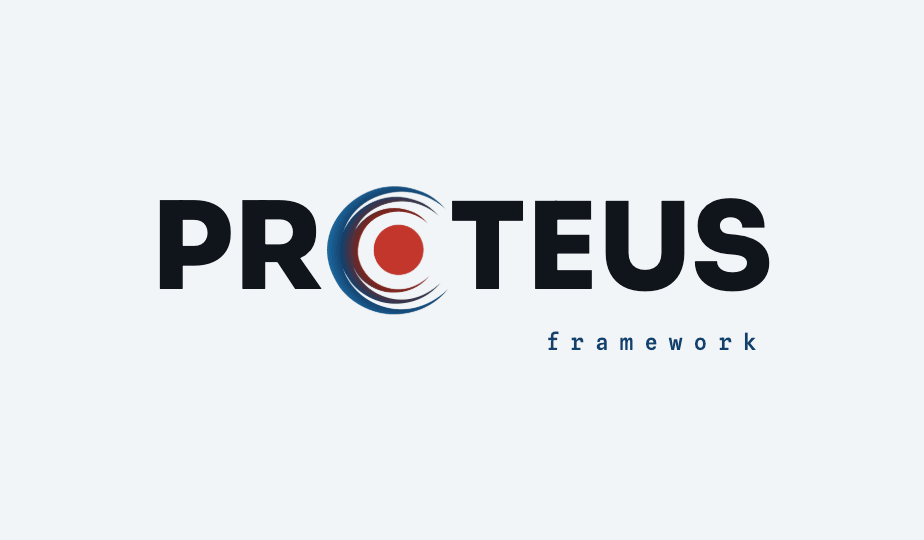
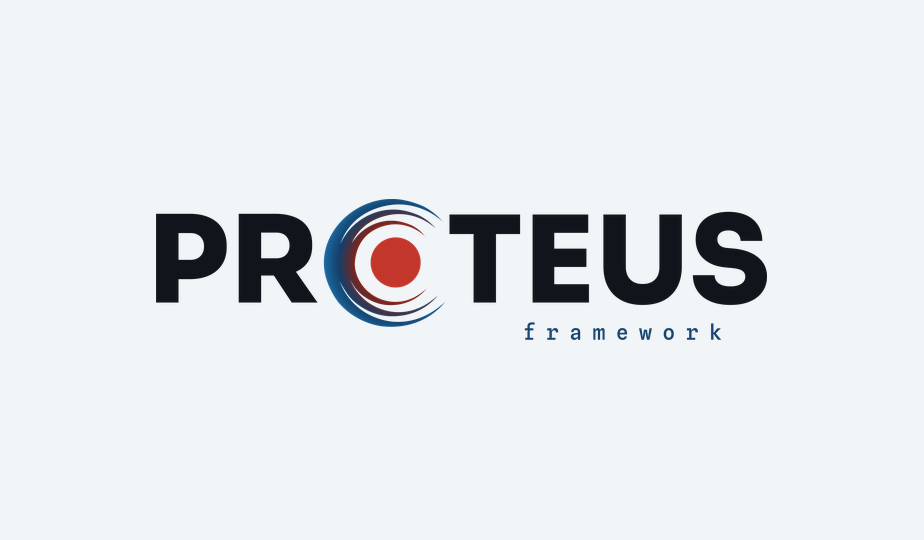
Sync brand assets to Thermocline v1.1
Update the vendored design tokens and lockup artwork to the v1.1 release of the PROTEUS visual language.

The stellar (MORS) domain colour moves from pale ice to solar gold, so the star gets its own colour and reads clearly on light pages where the old ice blue was almost invisible; the MORS swatch and module accent follow the token automatically. tokens.css also gains the new solar and verdant accent colours for later use. The "framework" tag now tucks into the wordmark's lower-right corner instead of sitting below it, in both the footer chrome and the live hero and footer lockups, with the raise and right inset scaled to the wordmark size. The regenerated lockup PNGs (the social card image among them) carry the same tucked tag at higher resolution.

Changed region(s): [[0.1515, 0.3259, 0.8485, 0.6222], [0.5455, 0.5926, 0.8182, 0.6519]]

diff --git a/public/assets/styles/tokens.css b/public/assets/styles/tokens.css
@@ -1,5 +1,5 @@
 /* ============================================================
-   PROTEUS FRAMEWORK — THERMOCLINE DESIGN TOKENS  v1.0
+   PROTEUS FRAMEWORK — THERMOCLINE DESIGN TOKENS  v1.1
    Magma · Void · Ocean — dark-first, instrument-grade
    Fonts: Sora / Instrument Sans / Spline Sans Mono
    ============================================================ */
@@ -13,6 +13,11 @@
   --pt-abyss:      #14406B;  /* deep blue, heading accents on light */
   --pt-azure:      #4FA3D9;  /* eyebrows, active nav on dark */
   --pt-ice:        #A8D4E8;  /* cool highlight on dark */
+
+  /* ——— ACCENTS (sporadic highlight, extra data-series range) ——— */
+  --pt-solar:      #E0A32E;  /* the star / MORS; bright, for dark surfaces and the data cycle */
+  --pt-solar-deep: #C8860F;  /* solar deepened for light surfaces (3.06:1 on white) */
+  --pt-verdant:    #57A05C;  /* habitable endpoint / surface; brand green, distinct from --pt-positive */
 
   /* ——— SURFACES · DARK (primary mode) ——— */
   --pt-void:       #05070B;  /* page background */
@@ -49,7 +54,7 @@
   --pt-dom-tidal:      #593E74;  /* LovePy, Obliqua — red→blue midpoint (CVD-safe) */
   --pt-dom-chem:       #1B6FA8;  /* VULCAN, ZEPHYRUS */
   --pt-dom-atmos:      #4FA3D9;  /* AGNI, JANUS */
-  --pt-dom-stellar:    #A8D4E8;  /* MORS */
+  --pt-dom-stellar:    #E0A32E;  /* MORS — solar gold, deepens on light for contrast */
 
   /* ——— SEMANTIC ——— */
   --pt-positive: #2E8B57;
@@ -117,6 +122,9 @@
   --pt-azure:    #1B6FA8;
   --pt-ice:      #14406B;
   --pt-shadow-2: 0 8px 28px -10px rgba(16,21,27,0.18);
+  /* solar deepens on light for adequate contrast (mirrors magma/crimson) */
+  --pt-solar:       #C8860F;
+  --pt-dom-stellar: #C8860F;
 }
 /* regions that stay dark in BOTH themes (hero band, code blocks,
    API signatures): restore dark tokens for their subtree only. */
@@ -129,6 +137,8 @@
   --pt-line-d:  #1A2230;
   --pt-azure:   #4FA3D9;
   --pt-ice:     #A8D4E8;
+  --pt-solar:   #E0A32E;
+  --pt-dom-stellar: #E0A32E;
 }
 [data-theme="light"] .foot-lockup .word,
 [data-theme="light"] .lockup .word { color: var(--pt-ink); }

diff --git a/public/assets/styles/site.css b/public/assets/styles/site.css
@@ -1,4 +1,4 @@
-/* PROTEUS website — shared chrome (Thermocline v1.0). Pairs with tokens.css.
+/* PROTEUS website — shared chrome (Thermocline v1.1). Pairs with tokens.css.
    The chrome section mirrors templates/web/site.css in
    FormingWorlds/proteus-visual-language; site-specific extensions follow the
    marked divider below. */
@@ -88,7 +88,7 @@ footer.site { border-top: 1px solid var(--pt-line-d); padding: 80px 0 56px; back
 .foot-lockup { display: inline-flex; flex-direction: column; }
 .foot-lockup .word { display: flex; align-items: center; font-family: var(--pt-font-display); font-weight: 800; font-size: 44px; letter-spacing: 0.01em; line-height: 1; color: var(--pt-paper); }
 .foot-lockup .word img { height: 1.06em; width: auto; margin: 0 0.015em 0 0.03em; transform: translateY(0.011em); }
-.foot-lockup .tag { font-family: var(--pt-font-mono); font-weight: 500; font-size: 8px; letter-spacing: 0.52em; color: var(--pt-azure); align-self: flex-end; margin-top: 7px; }
+.foot-lockup .tag { font-family: var(--pt-font-mono); font-weight: 500; font-size: 8px; letter-spacing: 0.52em; color: var(--pt-azure); align-self: flex-end; margin-top: -1px; margin-right: 14px; }
 .foot-bottom { display: flex; justify-content: space-between; align-items: center; margin-top: 72px; padding-top: 28px; border-top: 1px solid var(--pt-line-d); font-size: 14px; color: var(--pt-text-d3); }
 
 /* ============================================================
@@ -169,11 +169,13 @@ html { overflow-x: hidden; overflow-x: clip; }
 /* ---------- brand lockup (Lockup.astro) ---------- */
 /* The wordmark with the phase glyph as the O plus the "framework" tag. The
    footer and home-hero variants set the --lockup-* properties and share the
-   glyph alignment here, so tuning it moves every lockup together. */
+   glyph alignment here, so tuning it moves every lockup together. The tag is
+   tucked into the wordmark's lower-right corner: raised to hug the baseline
+   and inset from the right edge, both scaled to the wordmark size. */
 .brand-lockup { display: inline-flex; flex-direction: column; }
 .brand-lockup .word { display: inline-flex; align-items: center; font-family: var(--pt-font-display); font-weight: 800; font-size: var(--lockup-size, 44px); letter-spacing: 0.01em; line-height: 1; color: var(--pt-paper); }
 .brand-lockup .word img { height: 1.06em; width: auto; margin: 0 0.015em 0 0.03em; transform: translateY(0.011em); }
-.brand-lockup .tag { font-family: var(--pt-font-mono); font-weight: 500; font-size: var(--lockup-tag-size, 8px); letter-spacing: var(--lockup-tag-track, var(--pt-track-tag)); color: var(--pt-azure); align-self: flex-end; margin-top: var(--lockup-tag-gap, 7px); }
+.brand-lockup .tag { font-family: var(--pt-font-mono); font-weight: 500; font-size: var(--lockup-tag-size, 8px); letter-spacing: var(--lockup-tag-track, var(--pt-track-tag)); color: var(--pt-azure); align-self: flex-end; margin-top: var(--lockup-tag-gap, calc(-0.03 * var(--lockup-size, 44px))); margin-right: var(--lockup-tag-inset, calc(0.32 * var(--lockup-size, 44px))); }
 
 /* ---------- header: mobile navigation ---------- */
 .nav-burger { display: none; place-items: center; width: 38px; height: 38px; border: 1px solid var(--pt-line-d); border-radius: var(--pt-r-2); background: transparent; color: var(--pt-text-d2); cursor: pointer; flex: none; }